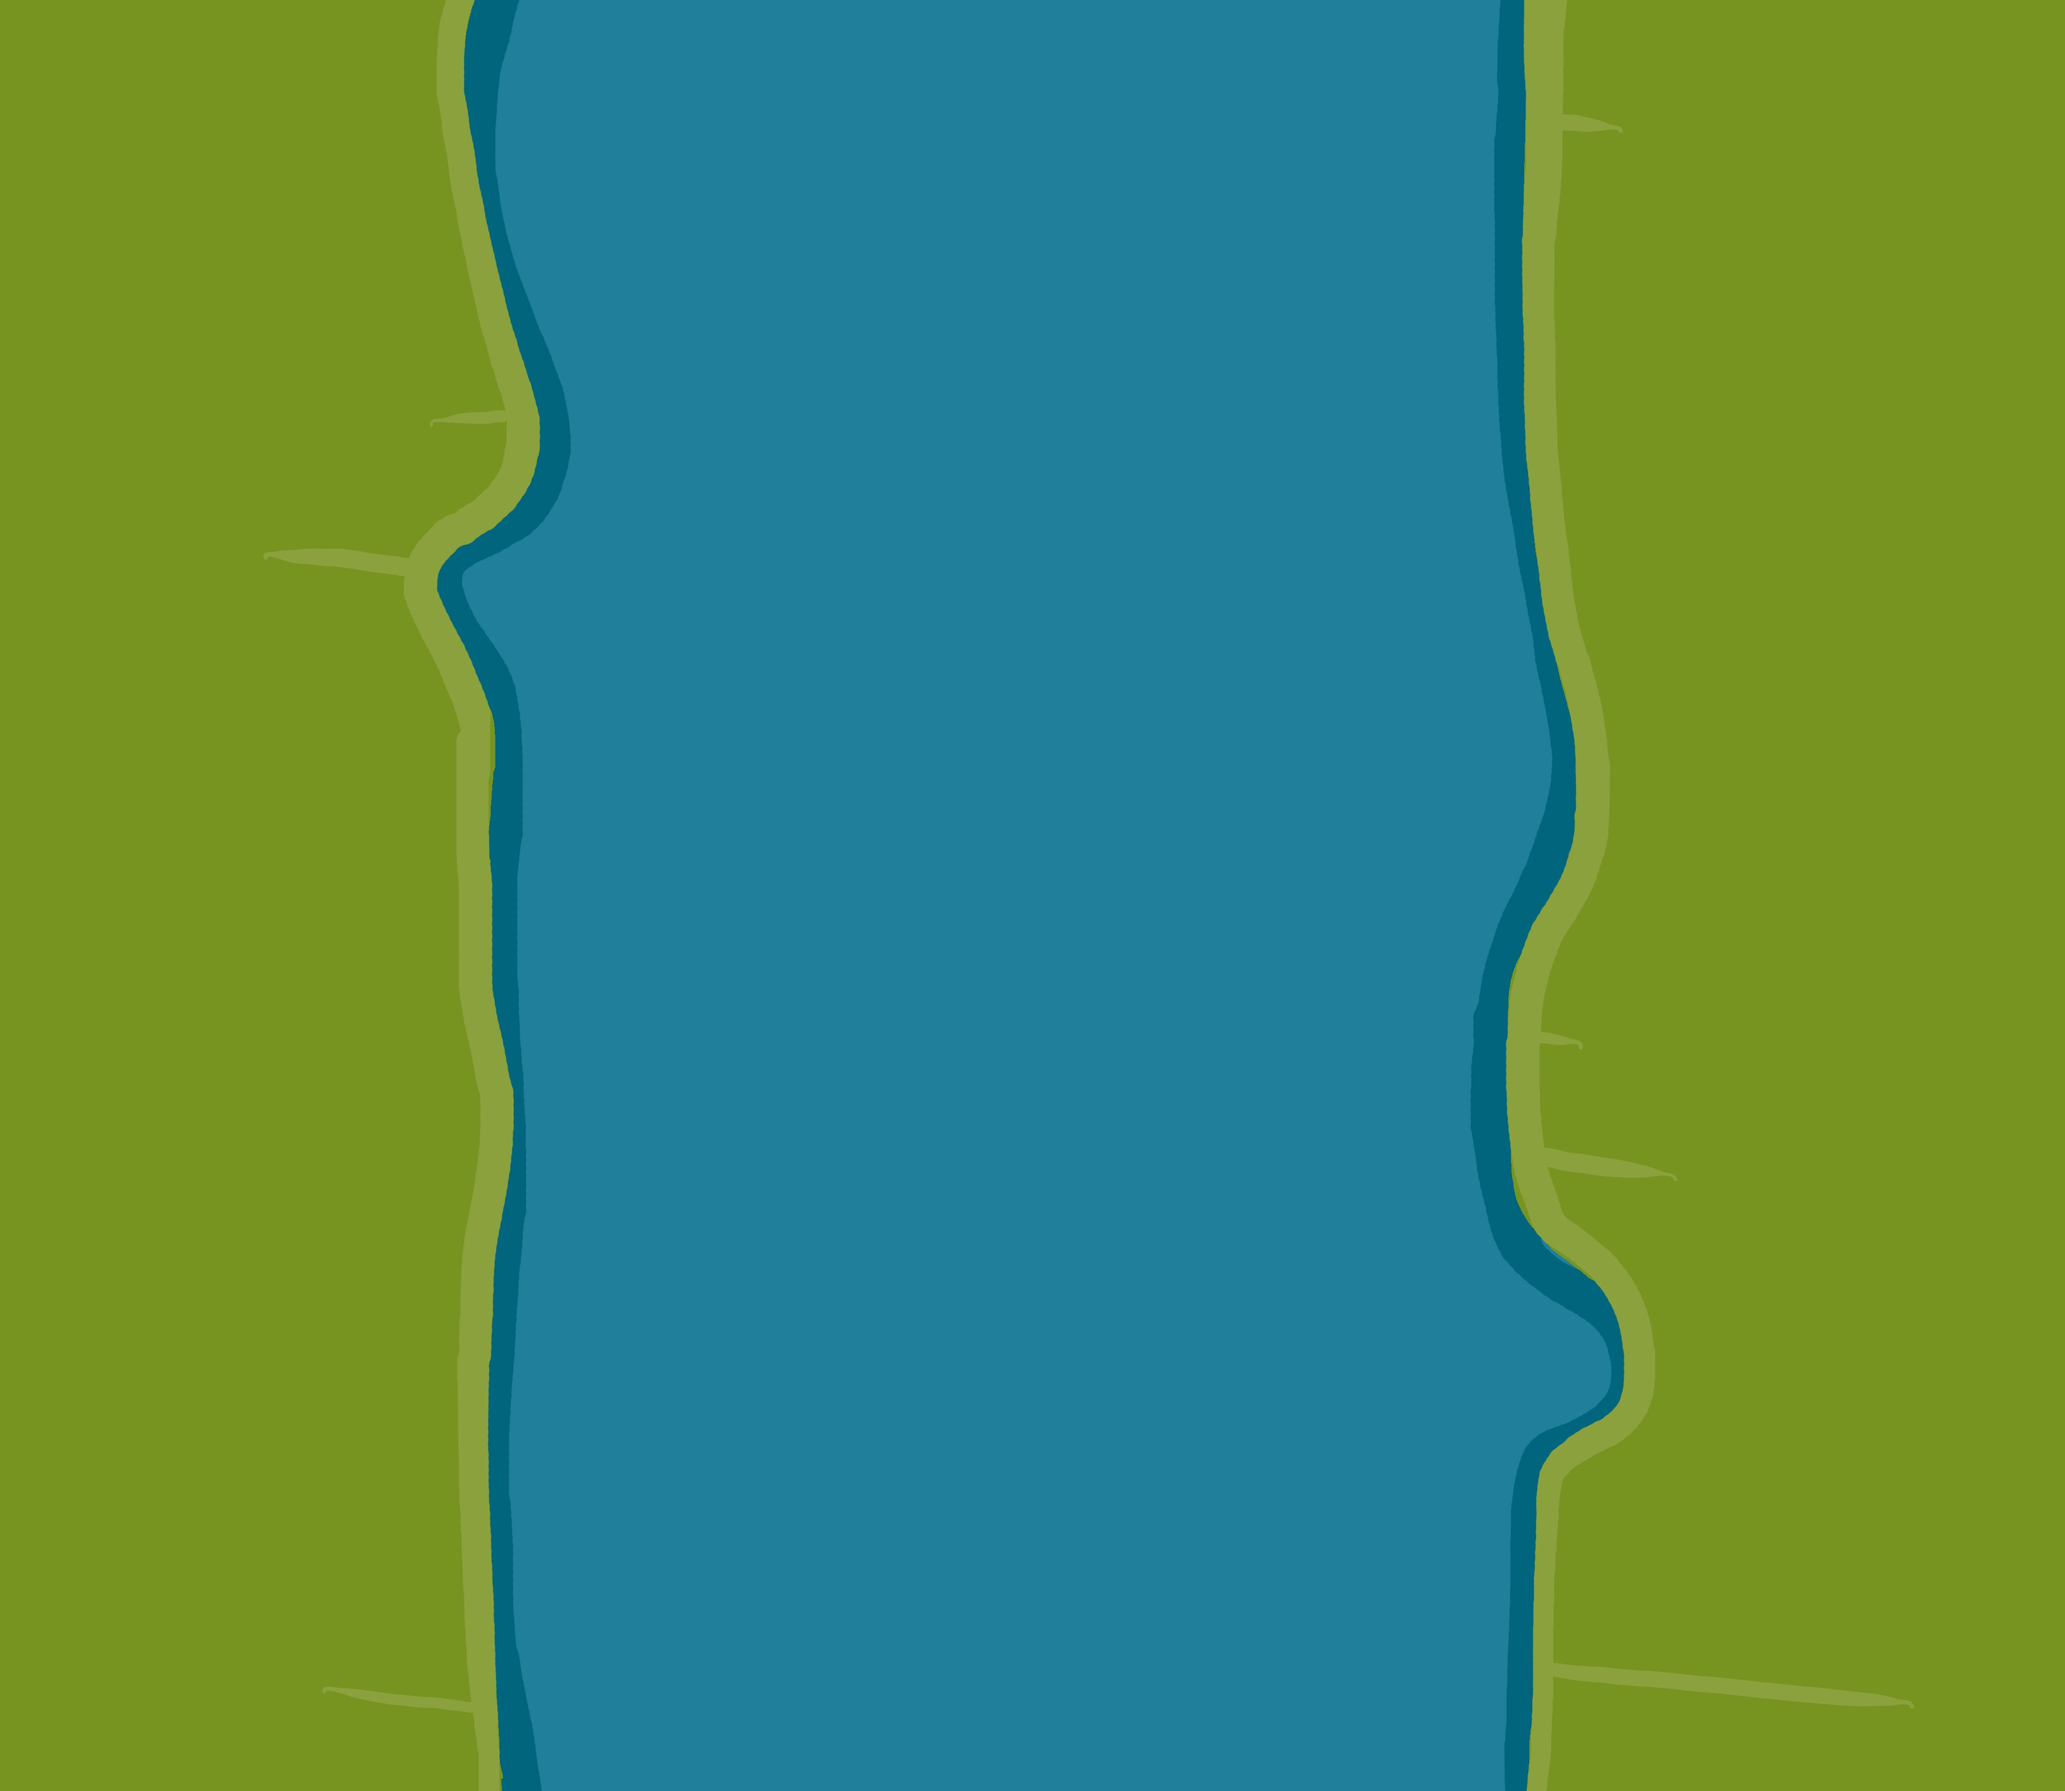
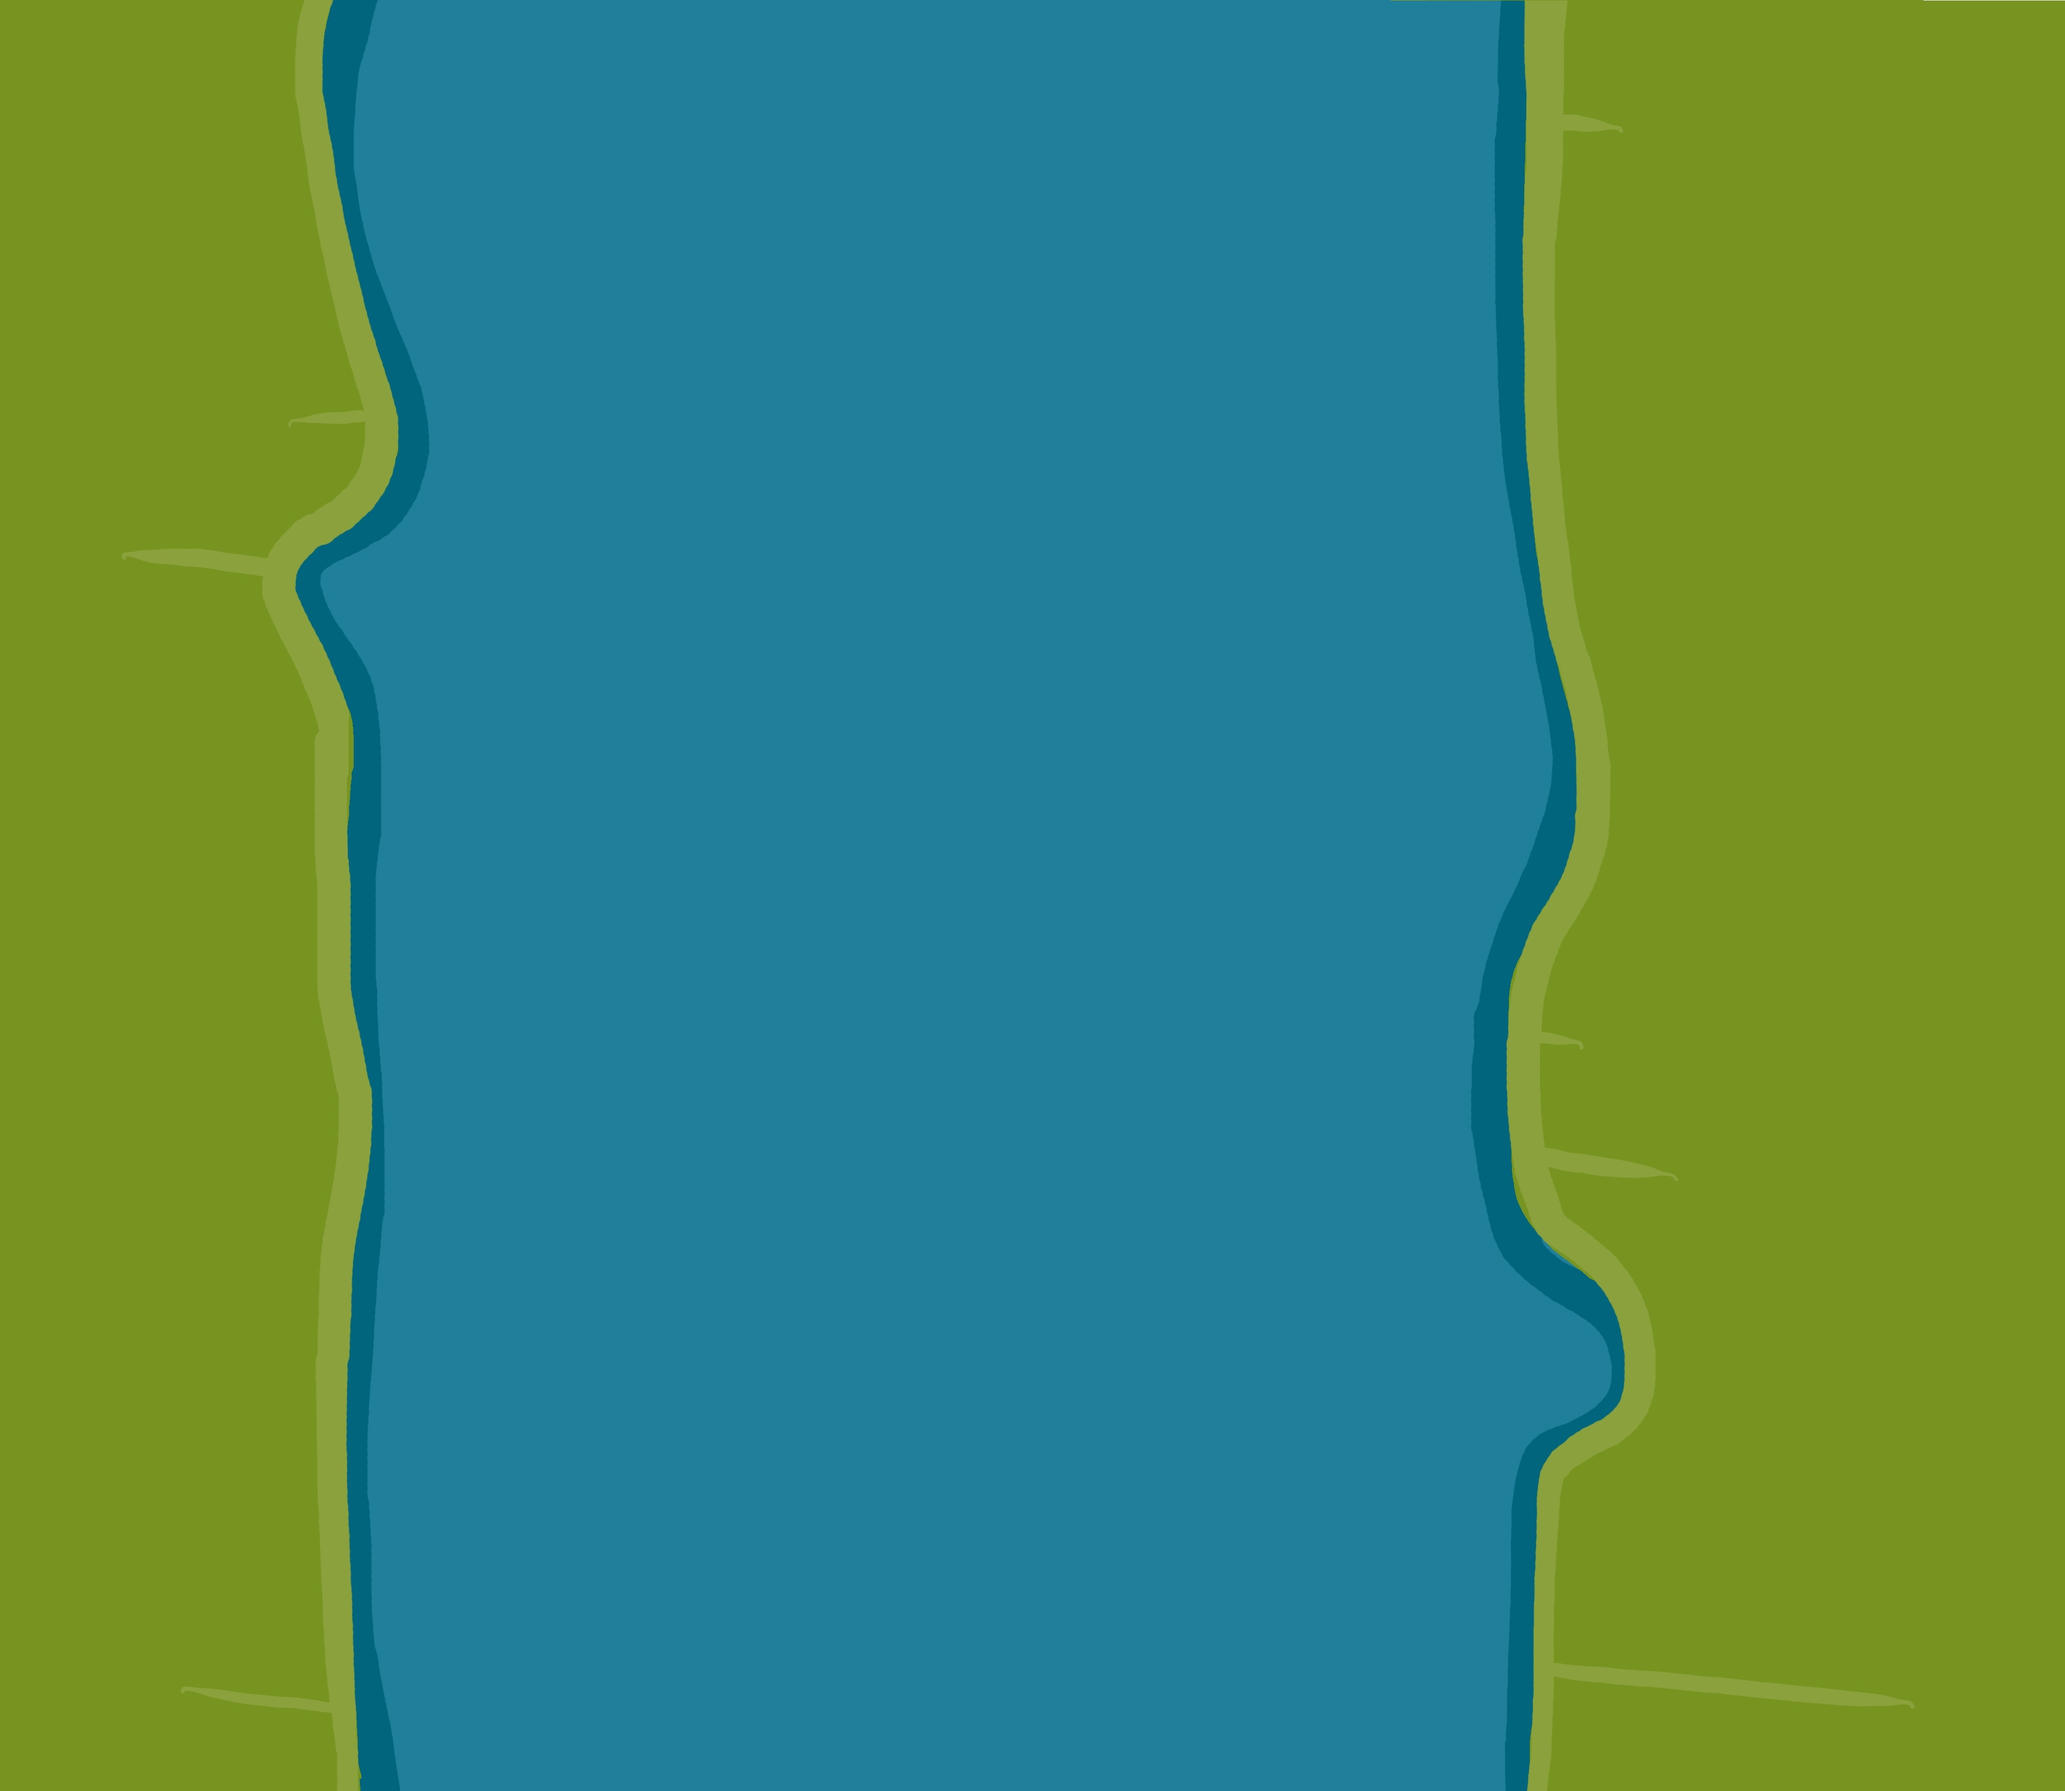
added submit event to all inputs + adapted background

Changed region(s): [[0.0936, 0.0, 0.2807, 1.0], [0.0624, 0.28, 0.0936, 0.3111]]

diff --git a/codi-lernapp/src/components/Column.vue b/codi-lernapp/src/components/Column.vue
@@ -3,19 +3,19 @@
         <div style="margin-left: -18rem; padding-top: 1rem">
             <div class="position4" style="margin-top: 1rem">
                 <input class="size" alt="Eingabefeld" type="text" maxlength="1"
-                       @input="submit">
+                       @input="$emit('userinput')">
             </div>
             <div class="position4">
                 <input class="size" alt="Eingabefeld" type="text" maxlength="1"
-                       @input="submit">
+                       @input="$emit('userinput')">
             </div>
             <div class="position4">
                 <input class="size" alt="Eingabefeld" type="text" maxlength="1"
-                       @input="submit">
+                       @input="$emit('userinput')">
             </div>
             <div class="position4">
                 <input class="size" alt="Eingabefeld" type="text" maxlength="1"
-                       @input="submit">
+                       @input="$emit('userinput')">
             </div>
         </div>
     </div>
@@ -25,23 +25,23 @@
         <div style="margin-left: -18rem; padding-top: 1rem">
             <div id="5" class="position4" style="margin-top: 1rem">
                 <input id="d3" class="size" alt="Eingabefeld" type="text" maxlength="1"
-                       @input="submit">
+                       @input="$emit('userinput')">
             </div>
             <div id="7" class="position4">
                 <input id="d5" class="size" alt="Eingabefeld" type="text" maxlength="1"
-                       @input="submit">
+                       @input="$emit('userinput')">
             </div>
             <div id="8" class="position4">
                 <input id="d6" class="size" alt="Eingabefeld" type="text" maxlength="1"
-                       @input="submit">
+                       @input="$emit('userinput')">
             </div>
             <div class="position4">
                 <input class="size" alt="Eingabefeld" type="text" maxlength="1"
-                       @input="submit">
+                       @input="$emit('userinput')">
             </div>
             <div class="position4">
                 <input class="size" alt="Eingabefeld" type="text" maxlength="1"
-                       @input="submit">
+                       @input="$emit('userinput')">
             </div>
         </div>
     </div>

diff --git a/codi-lernapp/src/components/Row.vue b/codi-lernapp/src/components/Row.vue
@@ -2,13 +2,13 @@
     <div>
         <div class="row_4">
             <input class="size" alt="Eingabefeld" type="text" maxlength="1"
-                   @input="submit">
+                   @input="$emit('userinput')">
             <input class="size" alt="Eingabefeld" type="text" maxlength="1"
-                   @input="submit">
+                   @input="$emit('userinput')">
             <input class="size" alt="Eingabefeld" type="text" maxlength="1"
-                   @input="submit">
+                   @input="$emit('userinput')">
             <input class="size" alt="Eingabefeld" type="text" maxlength="1"
-                   @input="submit">
+                   @input="$emit('userinput')">
         </div>
         <div class="row_5">
             <input id="b1" class="size" alt="Eingabefeld" type="text" maxlength="1"

diff --git a/codi-lernapp/src/pages/Crossword.vue b/codi-lernapp/src/pages/Crossword.vue
@@ -195,25 +195,6 @@
         background-size: 100%;
     }
 
-    .size {
-        height: 3rem;
-        width: 3rem;
-        text-align: center;
-        font-size: 25px;
-        border-radius: 5px;
-        margin: 0.5rem;
-    }
-
-    .side {
-        min-height: 100%;
-        height: 100%;
-        border-left: 13rem solid #408802;
-        border-right: 13rem solid #408802;
-    }
-
-    .all {
-        padding-top: 5rem;
-    }
 
     .wood_across {
         background-image: url(../assets/img/wood_across.png);
